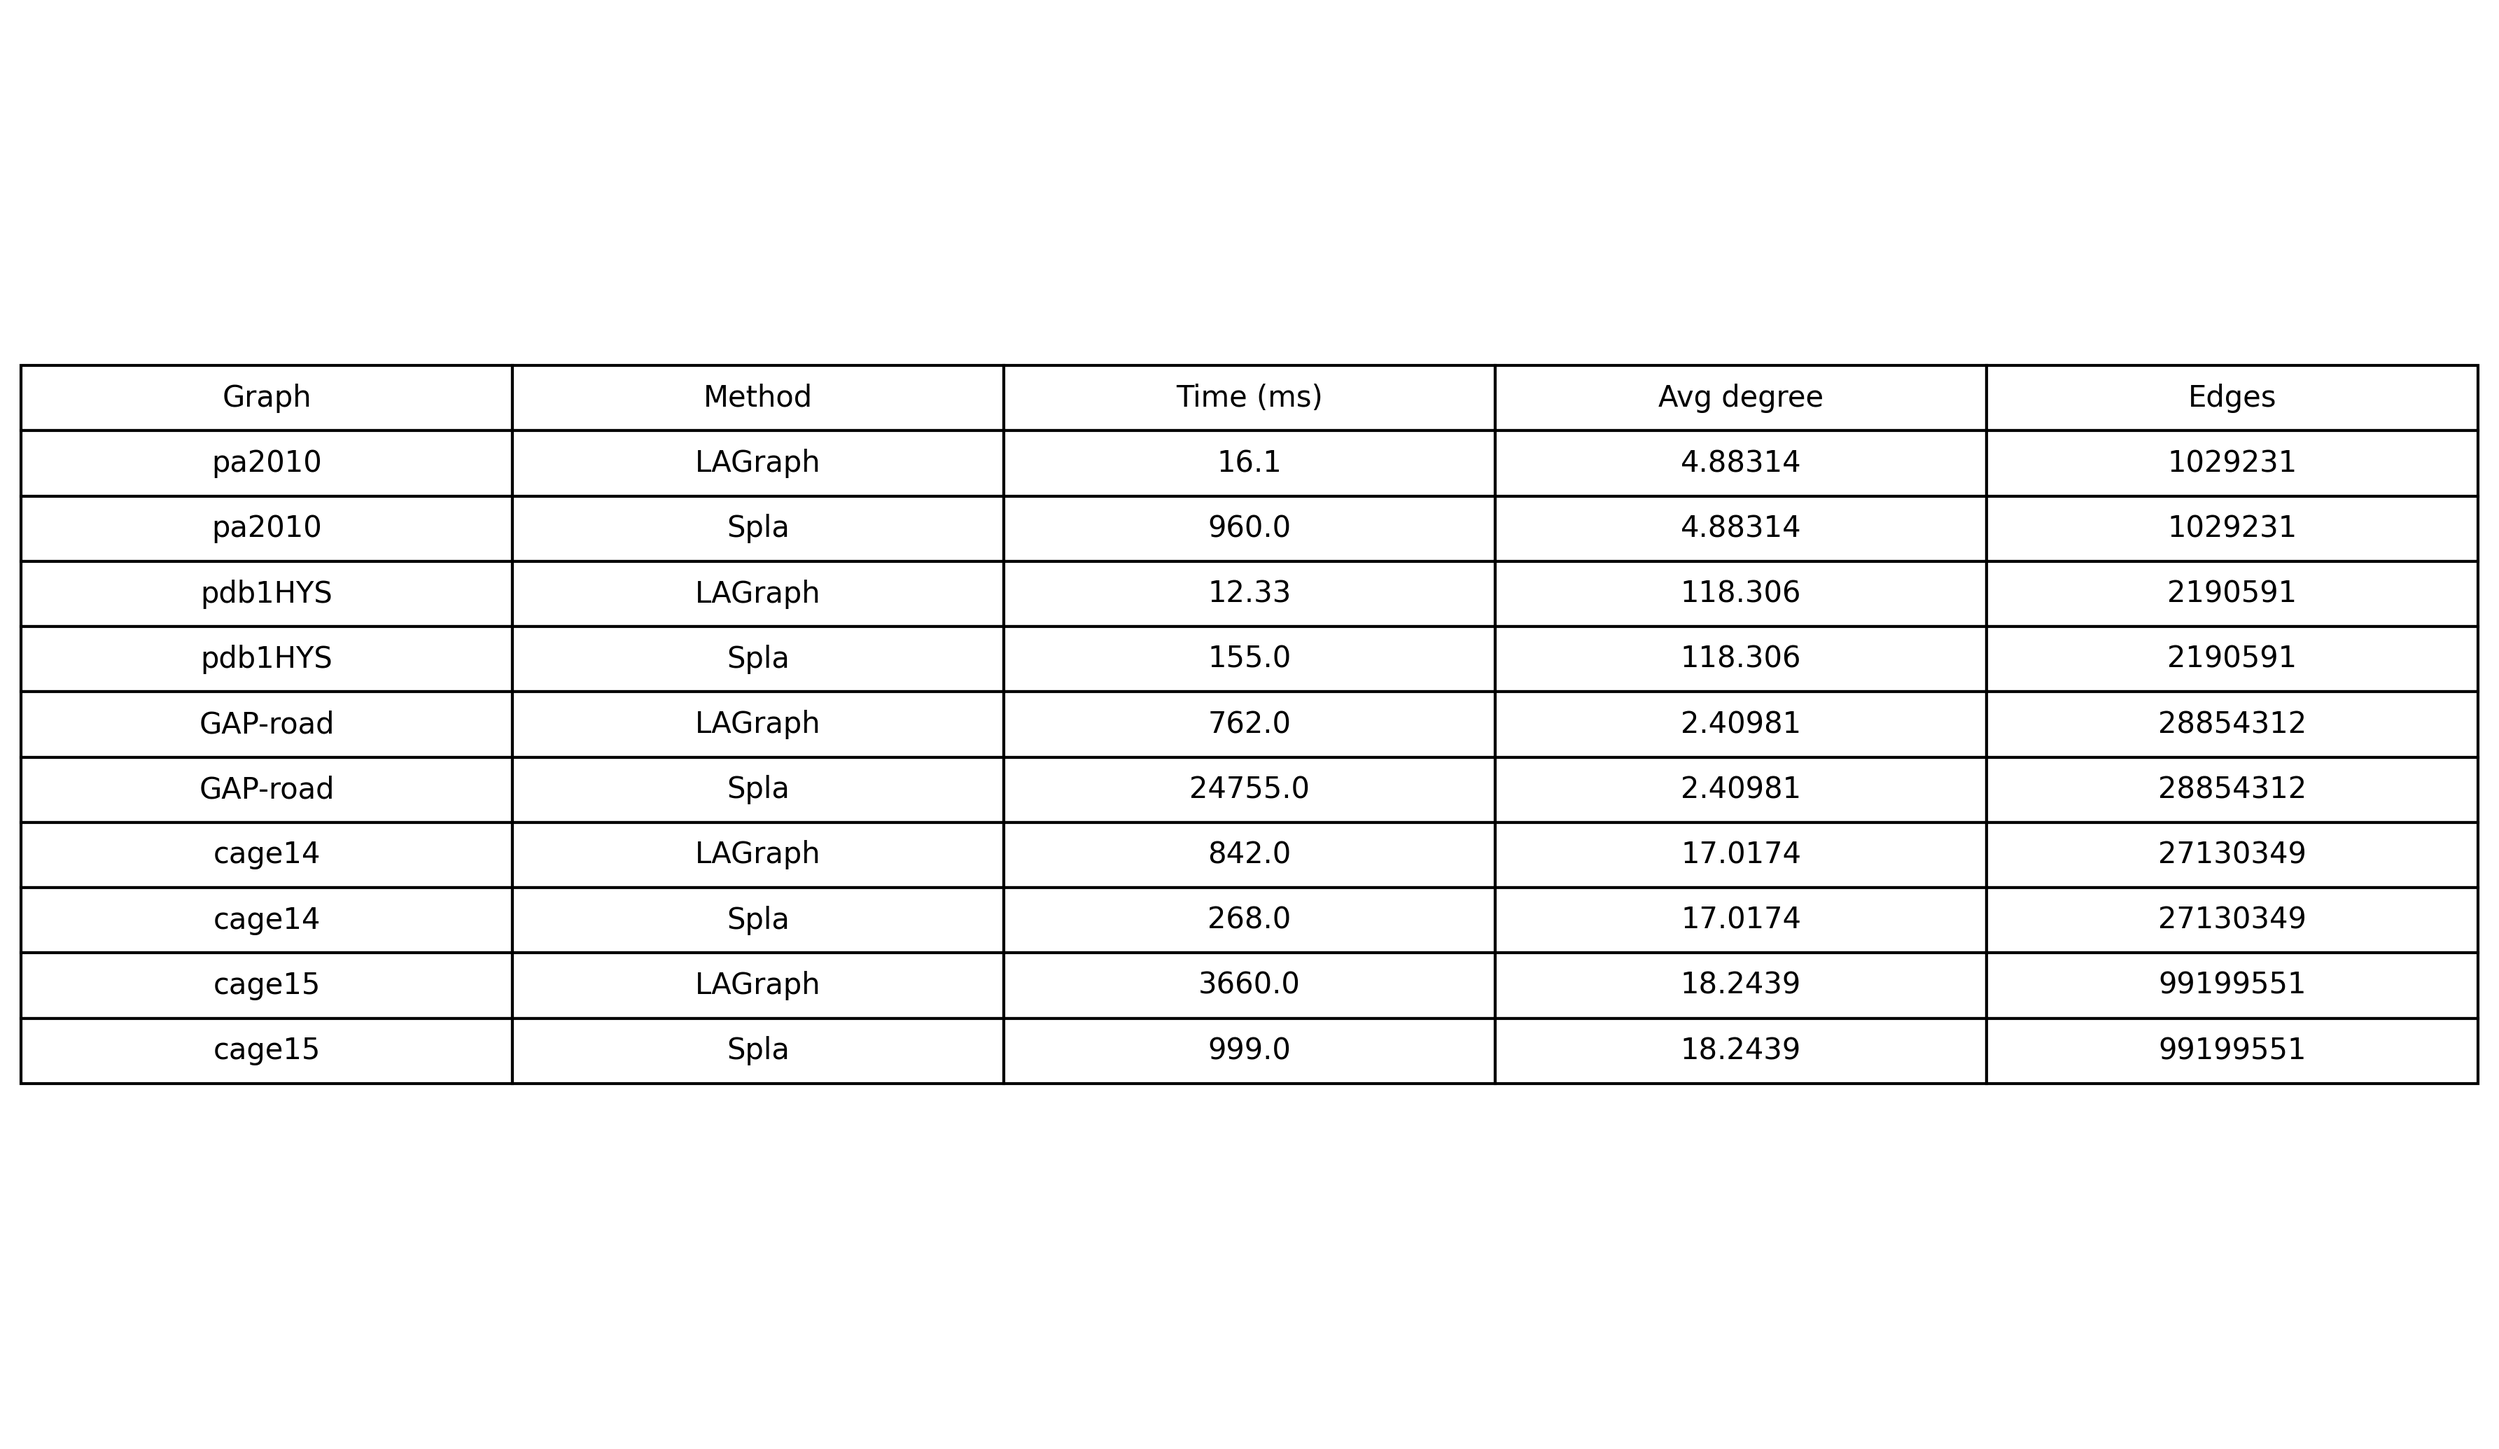
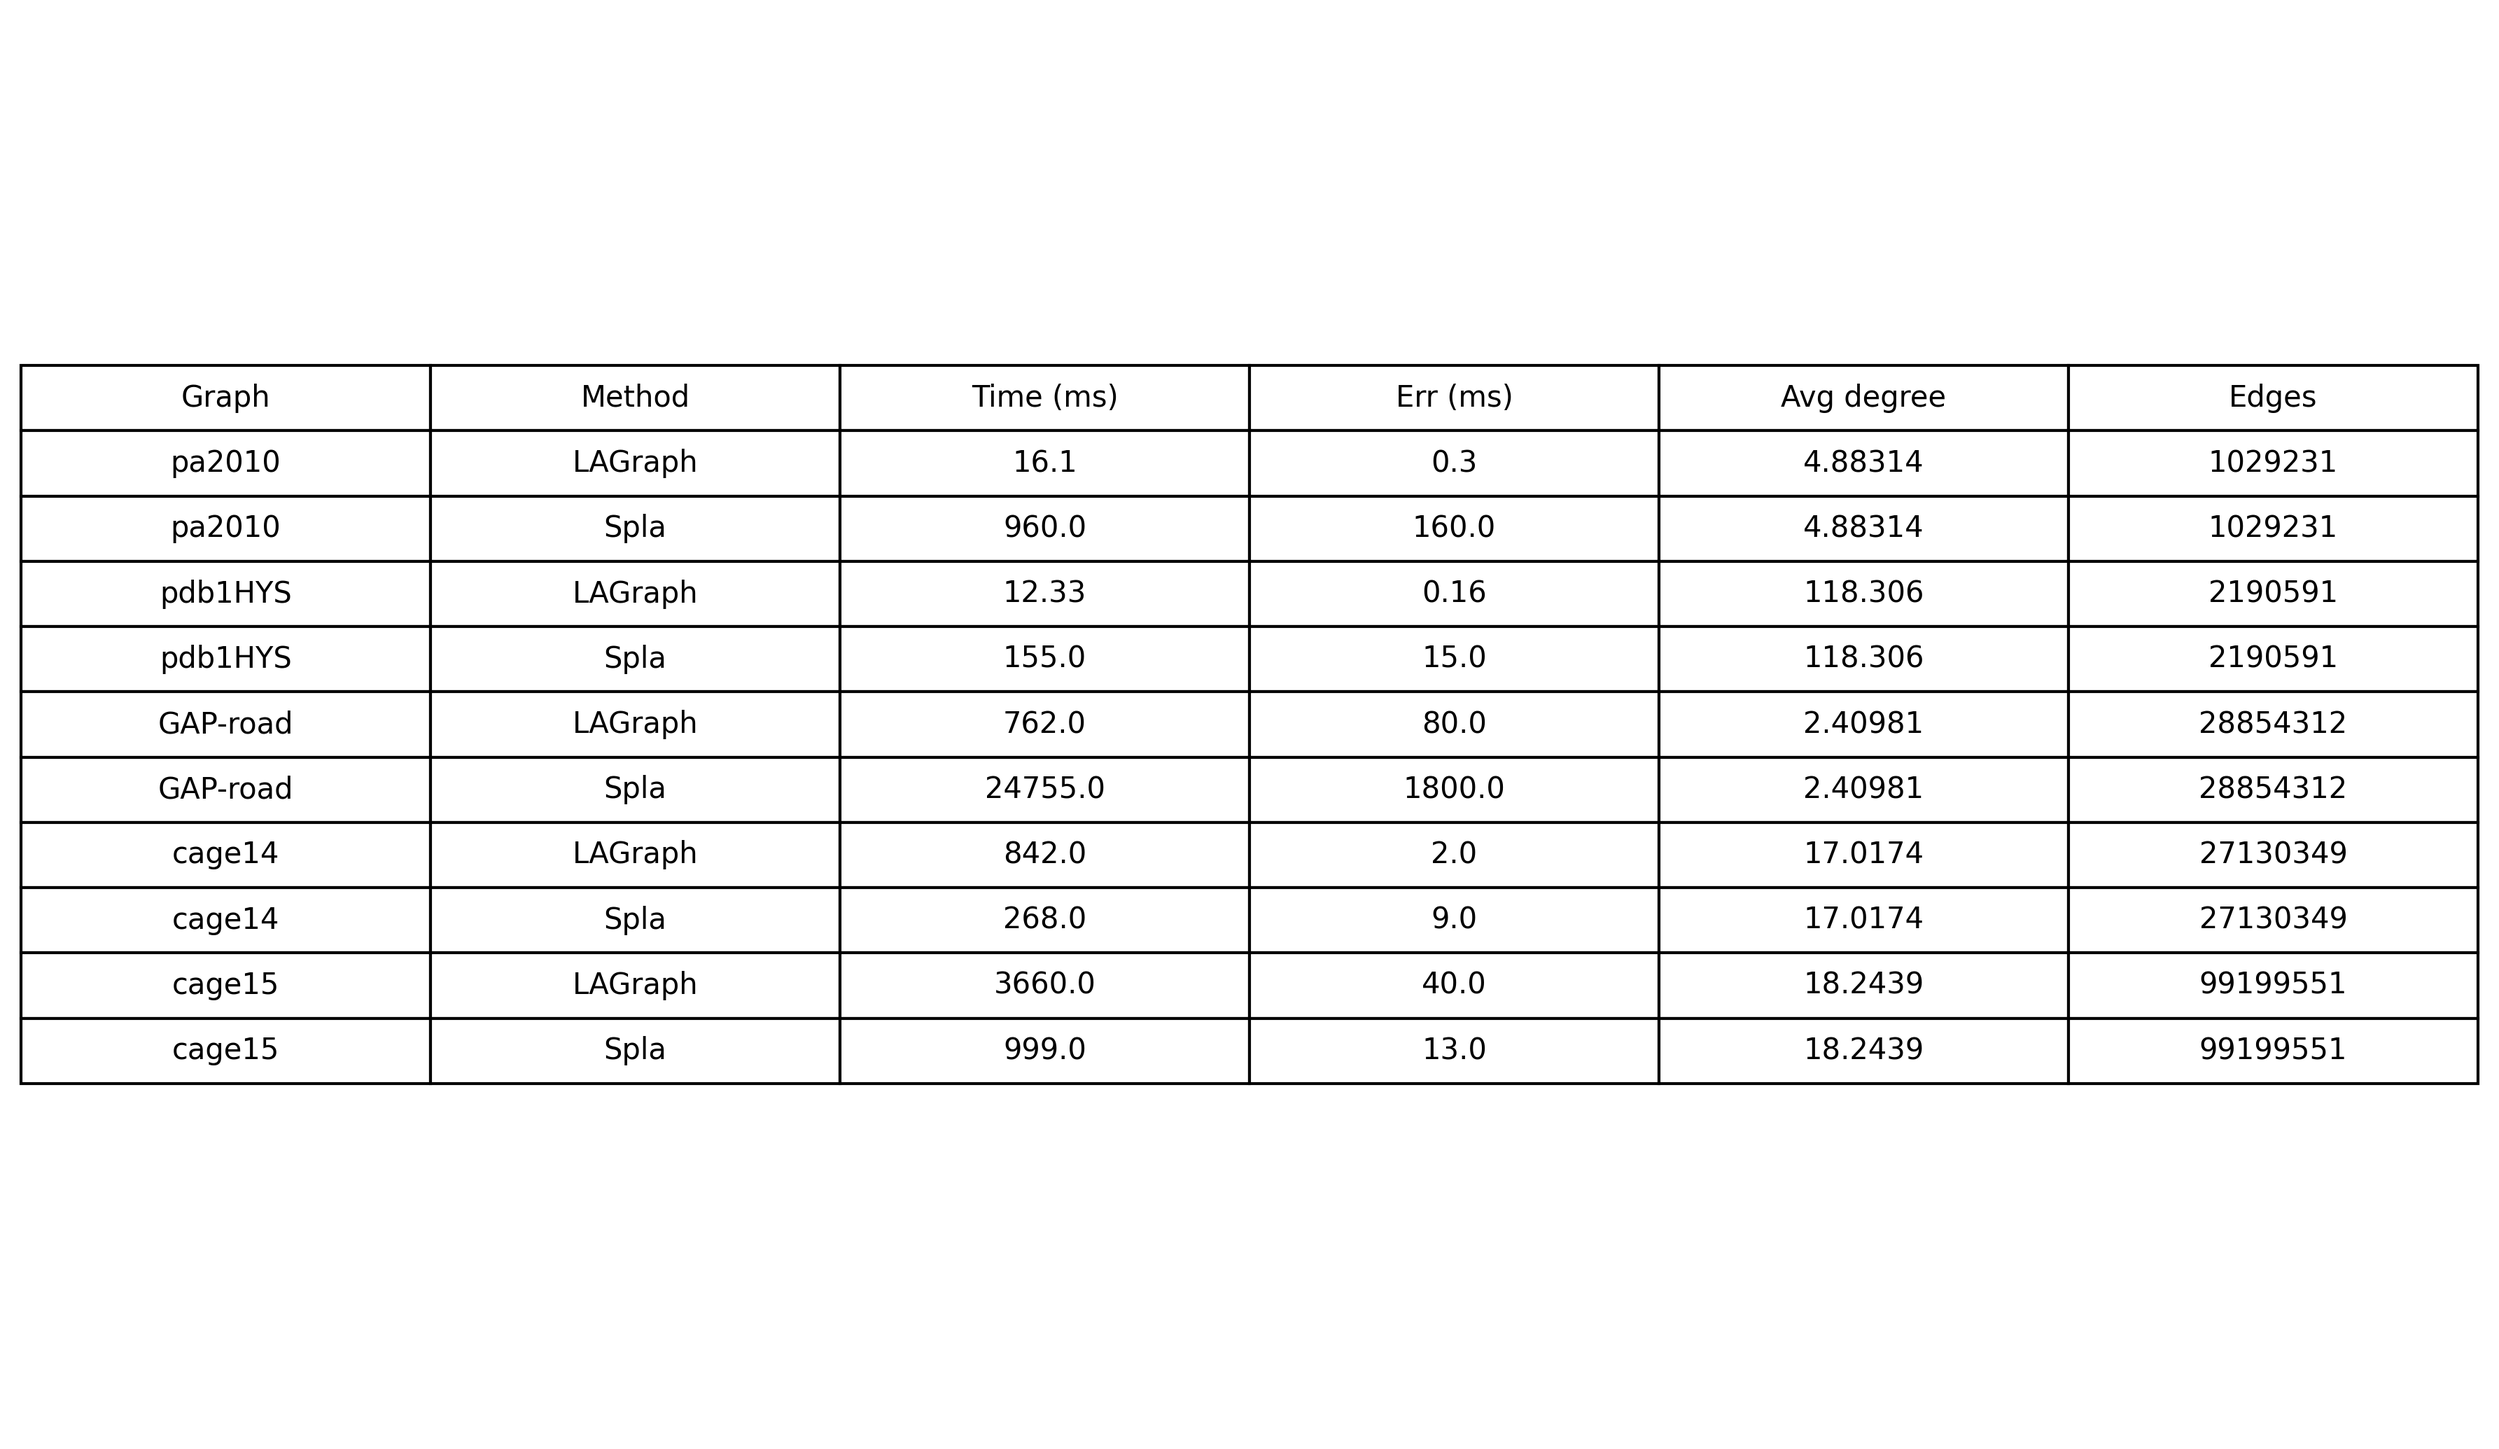
docs: add stderr to tables

diff --git a/scripts/show_results.py b/scripts/show_results.py
@@ -209,6 +209,7 @@ def save_tables(datasets, algo_name, save_dir):
                 "Graph": graph_name,
                 "Method": "LAGraph",
                 "Time (ms)": lag_mean,
+                "Err (ms)": lag_err,
                 "Avg degree": ds["avg_deg"],
                 "Edges": ds["edges"],
             }
@@ -219,6 +220,7 @@ def save_tables(datasets, algo_name, save_dir):
                 "Graph": graph_name,
                 "Method": "Spla",
                 "Time (ms)": spl_mean,
+                "Err (ms)": spl_err,
                 "Avg degree": ds["avg_deg"],
                 "Edges": ds["edges"],
             }
